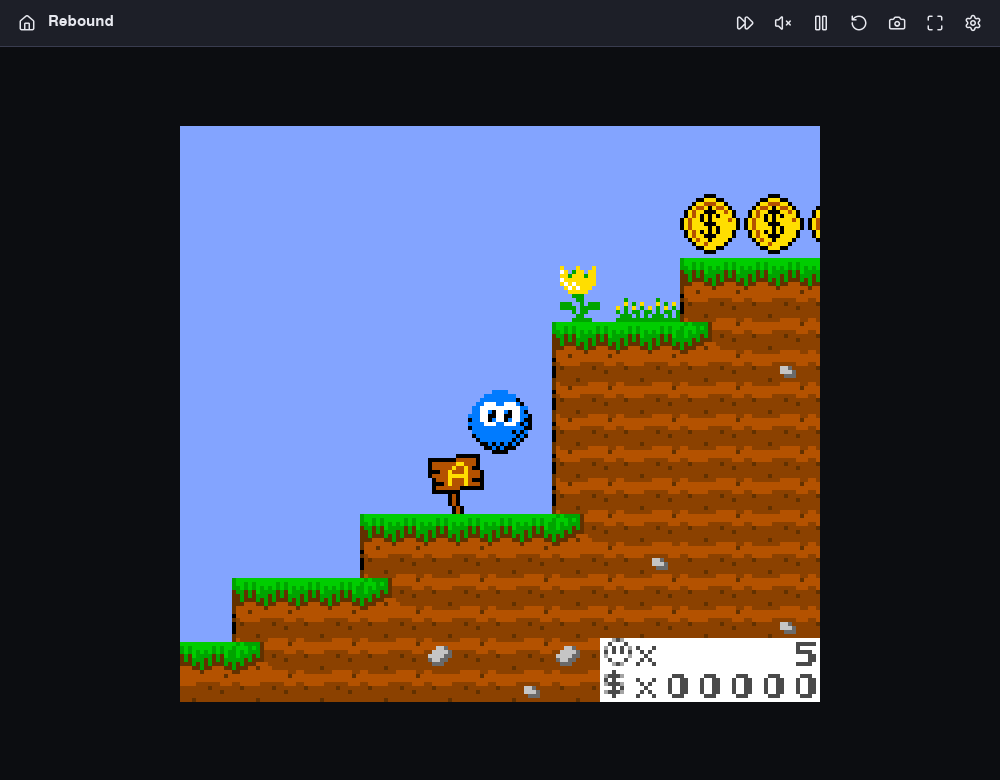
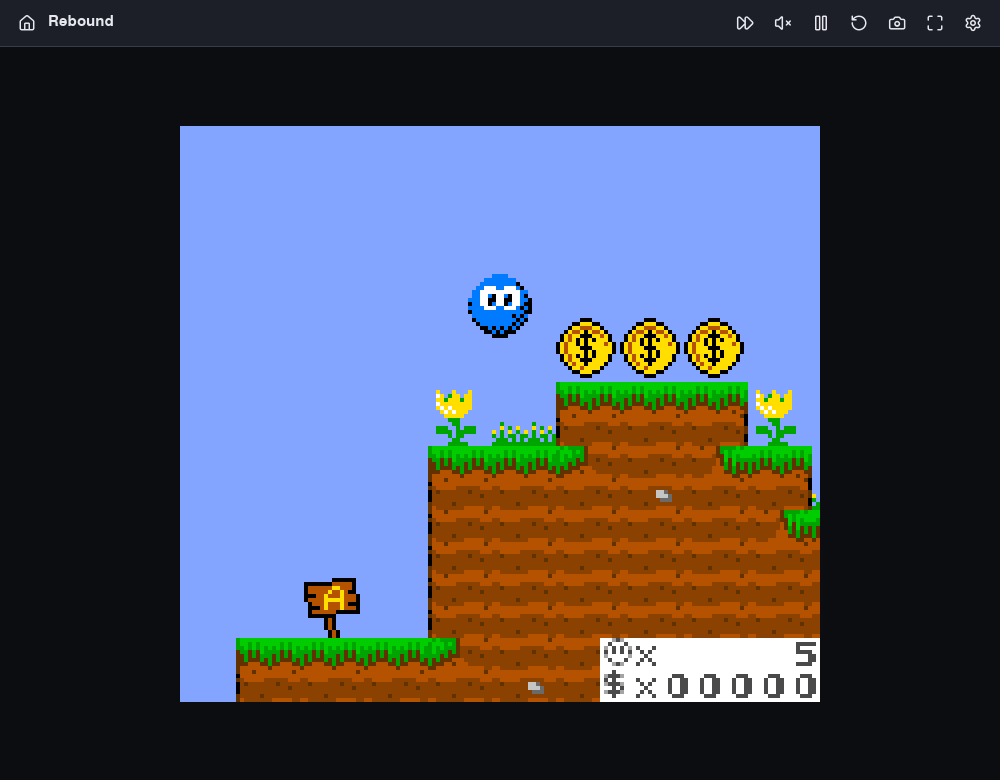
Show Rebound mid-jump in the README's gallery
The blob now leaps toward a row of coins further into the first level,
instead of waiting at its start.

Claude-Session: https://claude.ai/code/session_01Q6upZCbr5CSSw2wBNPS5w9

Changed region(s): [[0.155, 0.2462, 0.837, 0.9231]]

diff --git a/README.md b/README.md
@@ -58,7 +58,7 @@ Point it at your ROM folder and your games appear in a library with their title 
 <table>
   <tr>
     <td align="center"><img src="images/screenshots/big2small.png" width="400" alt="Big2Small's colorful forest map"><br><sub>Big2Small, a Game Boy Color puzzle adventure</sub></td>
-    <td align="center"><img src="images/screenshots/rebound.png" width="400" alt="Rebound, a blue blob on grassy steps under a blue sky, with coins"><br><sub>Rebound, a Game Boy Color platformer</sub></td>
+    <td align="center"><img src="images/screenshots/rebound.png" width="400" alt="Rebound, a blue blob jumping toward a row of coins over grassy hills"><br><sub>Rebound, a Game Boy Color platformer</sub></td>
   </tr>
   <tr>
     <td align="center"><img src="images/screenshots/moki.png" width="400" alt="Moki the Monster Kid waking up in a warm orange bedroom"><br><sub>Moki the Monster Kid, a Game Boy Color adventure</sub></td>
